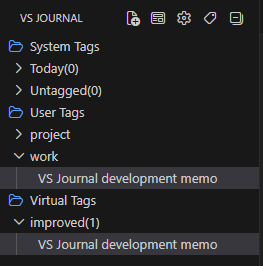
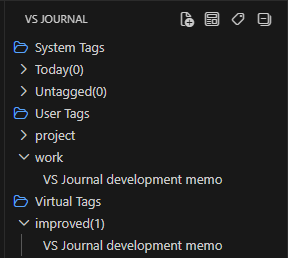
docs: update readme, changelog and screenshot

Changed region(s): [[0.0, 0.124, 1.0, 0.9922], [0.4563, 0.031, 0.943, 0.124], [0.0608, 0.031, 0.3346, 0.093]]

diff --git a/README.md b/README.md
@@ -170,8 +170,12 @@ The Markdown preview is optimized for readability and interaction.
 
 - Highlighting for user tags and virtual tag matches
 - Syntax highlighting for code blocks
-- Support for diff code block rendering
-- Language labels for code blocks
+- Extended code block display support
+  - Language labels displayed as tabs
+  - Diff rendering
+  - Line wrapping
+  - Line number display
+  - Hide language tabs
 - Support for simple TeX-style mathematical expressions
 - Improved table rendering (header emphasis, borders)
 - Better checklist visibility
@@ -223,6 +227,25 @@ They can also be combined with normal language specification.
 ````
 
 ![](images/screenshot-diff-sample.png)
+
+#### Code Block Display Options
+
+Code block display can be customized by adding options to the language specification.
+
+Example:
+
+```typescript wrap linenumber
+const longText = "This is a long line...";
+```
+
+Supported options:
+
+| Option | Description |
+| --- | --- |
+| `diff` | Highlight added and removed lines based on `+-` prefixes |
+| `wrap` | Wrap long lines |
+| `linenumber` | Display line numbers |
+| `notab` | Hide the language tab |
 
 #### Image Display Options
 

diff --git a/CHANGELOG.md b/CHANGELOG.md
@@ -1,5 +1,29 @@
 # Change Log
 
+## [0.5.1] - 2026-07-
+
+## Added
+
+- Added new code block display options:
+  - `wrap`: Wrap long lines.
+  - `linenumber`: Show line numbers.
+  - `notab`: Hide the language tab.
+
+## Improved
+
+- Improved the appearance of diff code blocks:
+  - Highlight added and removed lines with line-based backgrounds.
+  - Use colors that match the active VS Code theme.
+- Improved virtual tag navigation for smoother movement between highlighted tags based on their current on-screen position.
+- Changed how the journal folder is selected:
+  - Removed the selection button from the sidebar.
+  - You can now change the journal folder by clicking its path in the status bar.
+
+## Fixed
+
+- Added a fallback option to permanently delete a note if moving it to the trash fails.
+- Fixed an issue where notes could not be deleted in some environments.
+
 ## [0.5.0] - 2026-07-19
 
 ## Added
